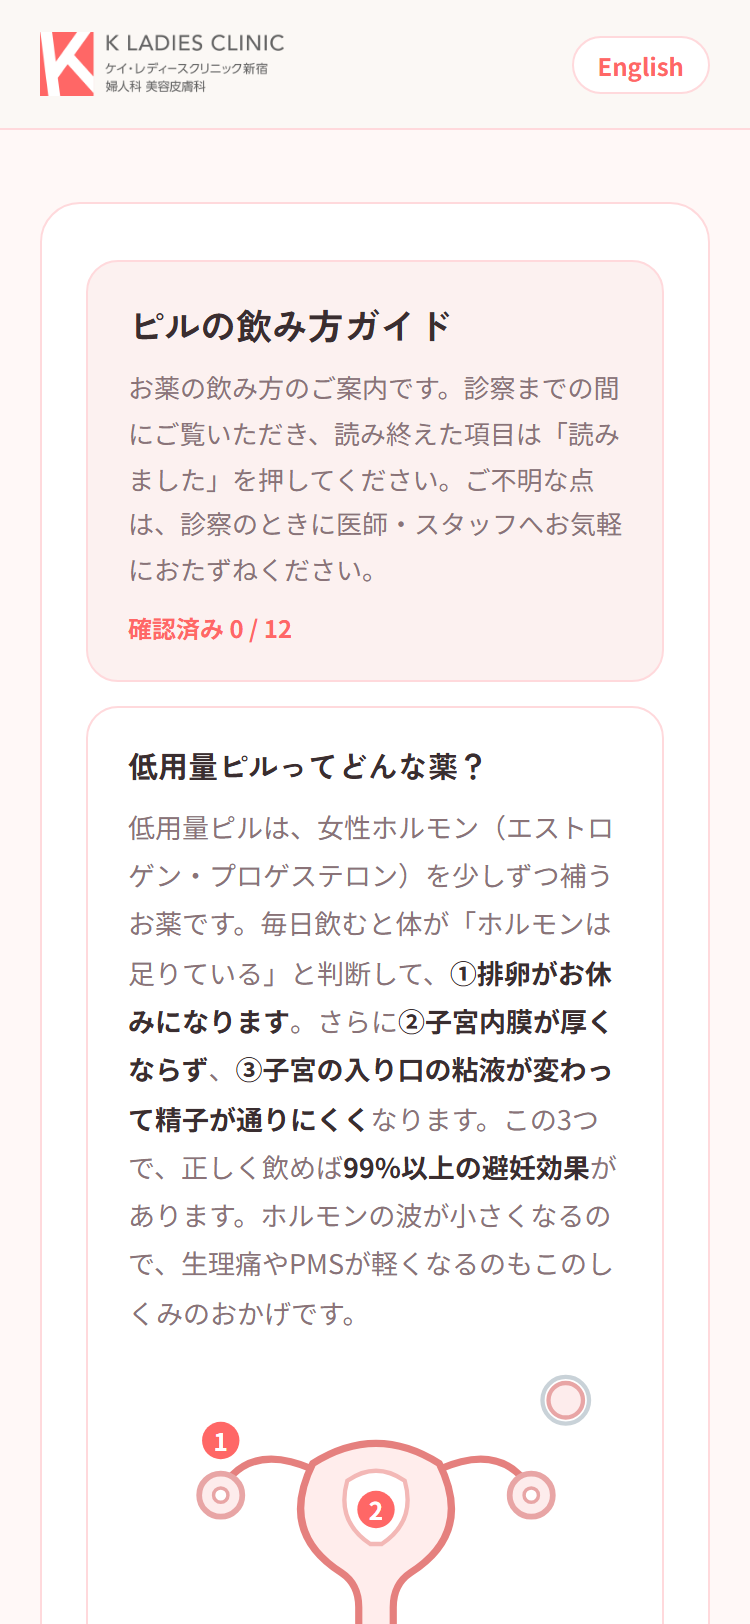
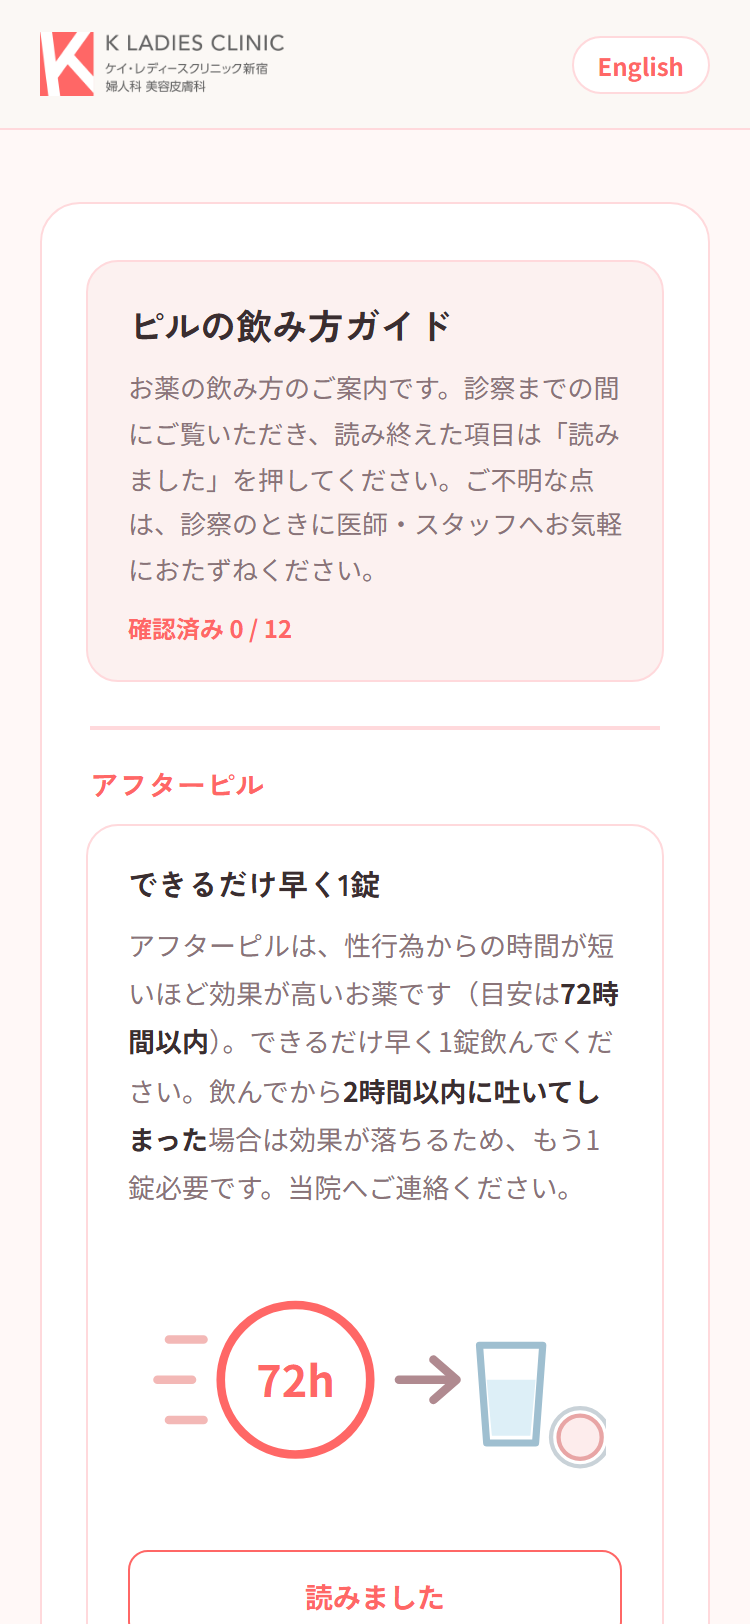
Put the EC section first when picked with other reasons

Changed region(s): [[0.1227, 0.431, 0.8893, 1.0], [0.8587, 0.4926, 0.8893, 0.5234]]

diff --git a/public/doctor-manual.html b/public/doctor-manual.html
@@ -176,7 +176,7 @@
 
   <h2>複数チェック時のルール</h2>
   <ul>
-    <li>チェックした理由のセクションが<strong>すべて</strong>表示されます。並び順は <strong>Ⓐ月経移動 → Ⓑ症状の導入 → Ⓒ低用量ピルコース → Ⓓニキビ → Ⓔミニピル → Ⓕアフターピル</strong>。<strong>月経移動は常に一番上</strong>です（予定が迫っている方が多いため）。</li>
+    <li>チェックした理由のセクションが<strong>すべて</strong>表示されます。並び順は <strong>Ⓐ月経移動 → Ⓕアフターピル → Ⓑ症状の導入 → Ⓒ低用量ピルコース → Ⓓニキビ → Ⓔミニピル</strong>。<strong>月経移動は常に一番上</strong>（予定が迫っている方が多いため）、<strong>アフターピルはその次</strong>（急ぎのため。月経移動が無ければ一番上）です。</li>
     <li>ミニピル・アフターピルの「折りたたみ扱い」は<strong>単独チェックのときだけ</strong>。他の理由と一緒なら通常表示です。</li>
   </ul>
 
@@ -423,7 +423,7 @@
 <!-- ================= 8ページ目: Ⓕアフターピル・料金一覧 ================= -->
 <div class="page">
   <h2><span class="tag">Ⓕ</span>アフターピル</h2>
-  <p class="note">単独チェックの方はこのセクションが先頭になり（急ぎのため）、低用量ピルコースは折りたたみに。</p>
+  <p class="note">急ぎのため、このセクションは常にガイドの先頭側（月経移動がある場合はその次）に出ます。単独チェックの方はさらに低用量ピルコースが折りたたみになります。</p>
   <div class="cardlist">
     <div class="cardrow"><div class="cname">できるだけ早く1錠</div><div class="cbody">時間が短いほど効果が高い（目安<strong>72時間以内</strong>）。<strong>2時間以内に吐いたら効果が落ちるためもう1錠必要</strong>→当院へ連絡、と指示。</div></div>
     <div class="cardrow"><div class="cname">飲んだあとの経過</div><div class="cbody">数日〜3週間で消退出血が来ることが多い。<strong>1ヶ月来なければ市販の妊娠検査薬で確認のうえ当院へ相談</strong>。</div></div>

diff --git a/public/intake.html b/public/intake.html
@@ -2842,6 +2842,8 @@
     }
 
     // ---- 月経移動（低用量ピルで行う。中用量ピルは副作用が強いので当院では使わない） ----
+    // 先頭に固定した月経移動セクションの枚数。アフターピル併選時はこの次に差し込む
+    var shiftFrontLen = 0;
     if (wantsShift) {
       var shiftStart = cards.length;
       cards.push(secLabel("月経移動（生理をずらしたい方）", "Moving your period"));
@@ -2895,6 +2897,7 @@
           : "低用量ピルは吐き気などの副作用が出にくい、やさしいお薬です。いちばん大事なのは飲み忘れないこと。<strong>飲み忘れると予定より早く出血が始まってしまう</strong>ことがあるので、毎日忘れずに飲んでください。なお、月経移動が終わったあとそのまま飲み続けて、避妊や生理痛の改善に使うこともできます。ご希望の方は診察でご相談ください。",
       }));
       // 月経移動で来た方が最初に読みたいセクションなので、ガイドの先頭へ移す
+      shiftFrontLen = cards.length - shiftStart;
       Array.prototype.unshift.apply(cards, cards.splice(shiftStart));
     }
 
@@ -3018,10 +3021,14 @@
       }));
     }
 
-    // アフターピルだけの人は、急ぎのアフターピルの説明を先頭へ動かす
-    // （この時点で cards は [低用量ピルの折りたたみ, アフターピル一式] の並び）
+    // アフターピルは急ぎなので前へ動かす。
+    // 単独の人: 先頭へ（この時点で cards は [低用量ピルの折りたたみ, アフターピル一式] の並び）。
+    // 低用量ピルなど他の理由と一緒の人: 月経移動の次（月経移動が無ければ先頭）へ
     if (ecFirst) {
       cards.unshift.apply(cards, cards.splice(ecStart));
+    } else if (wantsEc) {
+      var ecCards = cards.splice(ecStart);
+      Array.prototype.splice.apply(cards, [shiftFrontLen, 0].concat(ecCards));
     }
 
     // 完了画面の代わりにガイドへ直行するので、「送信できた」ことと、
